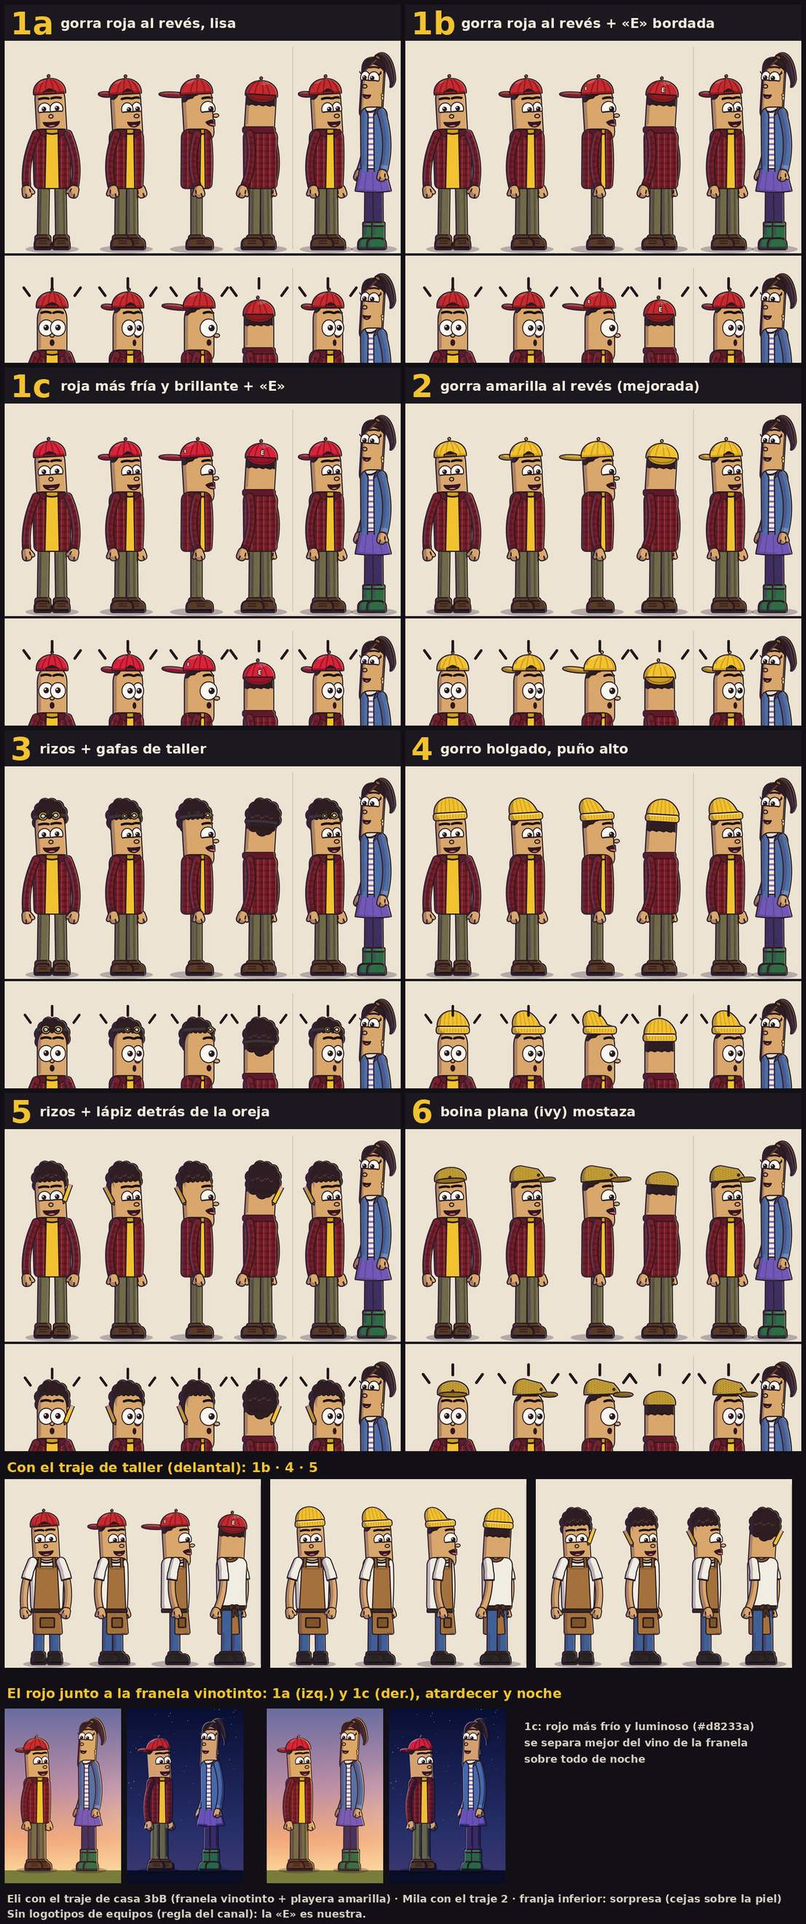
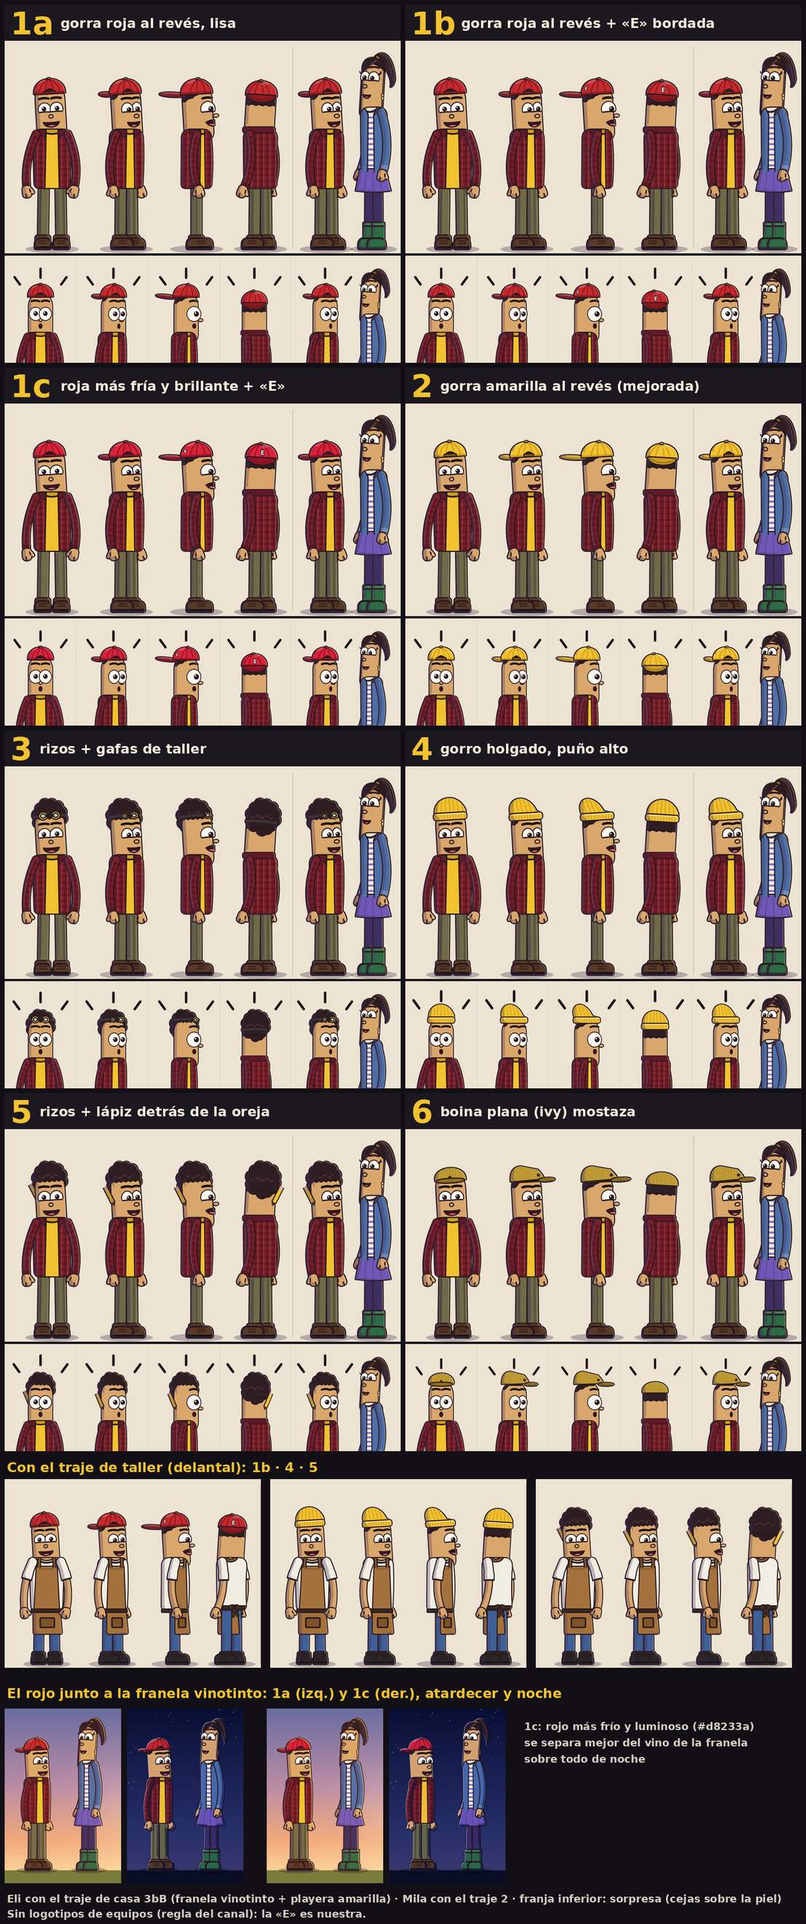
Guardian gate eli_gorro_opciones_v2: pencil (5) behind the head on Eli's right ear in every view, off the eye; surprise ticks / anger mark clear of caps, beanie, curls (extraK + new extras_clear_check.py); cap top button sits on the crown; sheet builder in git, solo surprise strip; brow_clear_check 
Claude-Session: https://claude.ai/code/session_01Xa8YPWmmU68CUYj3YXfuu9

diff --git a/newchannel/art/lib/hats_v2.js b/newchannel/art/lib/hats_v2.js
@@ -21,7 +21,7 @@
     h.shape(c, crown, col, H.lw);
     c.save(); crown(); c.clip();
     c.strokeStyle = K.rgba(dark, 0.95); c.lineWidth = H.lw * 1.1;   // panel seams converge on the button
-    for (const k of [-0.75, -0.3, 0.3, 0.75]) { c.beginPath(); c.moveTo(k * hw + off, band + 0.004); c.quadraticCurveTo(k * hw * 0.75 + off, -hh - 0.012, off * 0.5, -hh - 0.038); c.stroke(); }
+    for (const k of [-0.75, -0.3, 0.3, 0.75]) { c.beginPath(); c.moveTo(k * hw + off, band + 0.004); c.quadraticCurveTo(k * hw * 0.75 + off, -hh - 0.008, off * 0.5, -hh - 0.024); c.stroke(); }
     c.fillStyle = K.rgba('#ffffff', 0.18); c.beginPath(); c.ellipse(-H.faceDir * hw * 0.35 - hw * 0.2 * (1 - fs), -hh - 0.016, hw * 0.35, 0.012, -0.3, 0, K.TAU); c.fill();   // soft sheen on the lit side
     c.fillStyle = K.rgba(dark, 0.9); c.fillRect(-hw * 1.3, band - 0.004, hw * 2.6, 0.01);   // the sweatband rim
     c.restore();
@@ -37,7 +37,9 @@
     else if (o.emblem && fs > 0.55) {   // 3/4-profile: the mark peeks on the front panel at the back of the head
       c.font = `800 ${0.028}px "Martian Mono"`; c.textAlign = 'center'; c.textBaseline = 'middle'; c.lineWidth = H.lw; c.strokeStyle = K.rgba(INK, 0.8); const ex = bk * hw * 0.78;
       c.strokeText(o.emblem, ex, band - 0.026); c.fillStyle = o.emblemCol || '#f3ecdd'; c.fillText(o.emblem, ex, band - 0.026); }
-    c.fillStyle = dark; c.strokeStyle = INK; c.lineWidth = H.lw; c.beginPath(); c.arc(off * 0.5, -hh - 0.04, 0.0075, 0, K.TAU); c.fill(); c.stroke();   // top button
+    // top button, sitting ON the crown top (-hh - 0.0235), cloth-coloured (Guardian 2026-10-29: it floated 0.016 above the crown
+    // on a stalk of outline + rim light and read as a «?» swirl at 1080p)
+    c.fillStyle = K.shade(col, -0.06); c.strokeStyle = INK; c.lineWidth = H.lw; c.beginPath(); c.ellipse(off * 0.5, -hh - 0.026, 0.011, 0.006, 0, 0, K.TAU); c.fill(); c.stroke();
     c.restore();
   };
 
@@ -60,9 +62,15 @@
     c.restore();
   }
 
-  // 5 · short curls + a yellow pencil tucked behind the ear (workshop habit); the pencil sits on the side of the head
-  function pencil(c, H) {
-    const hw = H.hw, side = H.back ? 1 : (H.fs < 0.2 ? 1 : -H.faceDir), x0 = side * hw * 1.0, y0 = 0.008;   // on the head edge (the ear side away from the face), leaning out and back
+  // 5 · short curls + a yellow pencil tucked behind Eli's RIGHT ear (workshop habit). The ear never changes: screen-left in the
+  // front-ish views, screen-right from the back. Guardian 2026-10-29: in front view it was drawn over the face edge at eye
+  // height (touching the right eye) and on the other ear than in 3/4 / profile / back. Now: where that ear is at the silhouette
+  // (front) or on the far side (turned to screen-left) the pencil goes BEHIND the head (hairBack layer) and only the eraser
+  // end shows past the hair; where the ear faces us (turned to screen-right, back views) it lies on the side of the head.
+  function pencil(c, H, behind) {
+    const front = !H.back && H.fs < 0.2, near = H.back || (!front && H.faceDir > 0);
+    if (behind === near) return;
+    const hw = H.hw, side = H.back ? 1 : -1, x0 = side * hw * (front ? 0.92 : 1.0), y0 = front ? -0.006 : 0.008;
     const ang = side * 0.42, L = 0.085, w = 0.009, dx = Math.sin(ang) * L, dy = -Math.cos(ang) * L;
     c.save(); c.translate(x0, y0); c.lineCap = 'butt';
     const seg = (a, b, col, ww) => { c.strokeStyle = INK; c.lineWidth = ww + H.lw * 2; c.beginPath(); c.moveTo(dx * a, dy * a); c.lineTo(dx * b, dy * b); c.stroke(); c.strokeStyle = col; c.lineWidth = ww; c.stroke(); };
@@ -91,19 +99,20 @@
 
   const RED = '#c62a2f', RED_D = '#8e1a20', RED_C = '#d8233a', RED_CD = '#9a1328', Y = '#f2c230', YD = '#cf9d1f';
   C.ELI_HATS_V2 = {
-    '1a': { name: 'gorra roja al revés (lisa)', cost: 'nuevo (gorra estructurada de 6 paneles, cierre trasero a la vista)', layers: () => ({ extraK: 1.36, hat: capRev(RED, RED_D) }) },
-    '1b': { name: 'gorra roja al revés con «E» bordada', cost: 'igual que 1a + bordado', layers: () => ({ extraK: 1.36, hat: capRev(RED, RED_D, { emblem: 'E' }) }) },
-    '1c': { name: 'gorra roja más fría y brillante (se separa mejor del vinotinto)', cost: 'igual que 1a', layers: () => ({ extraK: 1.36, hat: capRev(RED_C, RED_CD, { emblem: 'E' }) }) },
-    2: { name: 'gorra amarilla al revés (mejorada)', cost: 'nuevo, misma función que 1', layers: () => ({ extraK: 1.36, hat: capRev(Y, YD, { strap: '#8a6512' }) }) },
-    3: { name: 'rizos + gafas de taller (pulida)', cost: 'existe (ronda 1, pasada por el Guardián)', layers: () => ({ extraK: 1.3, hat: (c, H) => { curlsFront(c, H); goggles(c, H); }, hairBack: curlsBack }) },
-    4: { name: 'gorro tejido holgado, puño alto (cejas siempre libres)', cost: 'nuevo (rediseño del gorro actual)', layers: () => ({ extraK: 1.3, hat: slouch, backHair: (c, H) => shortHair(c, H, 0.06) }) },
-    5: { name: 'rizos + lápiz amarillo detrás de la oreja', cost: 'nuevo (lápiz) + rizos existentes', layers: () => ({ extraK: 1.3, hat: (c, H) => { curlsFront(c, H); pencil(c, H); }, hairBack: curlsBack }) },
+    '1a': { name: 'gorra roja al revés (lisa)', cost: 'nuevo (gorra estructurada de 6 paneles, cierre trasero a la vista)', layers: () => ({ extraK: 1.5, hat: capRev(RED, RED_D) }) },
+    '1b': { name: 'gorra roja al revés con «E» bordada', cost: 'igual que 1a + bordado', layers: () => ({ extraK: 1.5, hat: capRev(RED, RED_D, { emblem: 'E' }) }) },
+    '1c': { name: 'gorra roja más fría y brillante (se separa mejor del vinotinto)', cost: 'igual que 1a', layers: () => ({ extraK: 1.5, hat: capRev(RED_C, RED_CD, { emblem: 'E' }) }) },
+    2: { name: 'gorra amarilla al revés (mejorada)', cost: 'nuevo, misma función que 1', layers: () => ({ extraK: 1.5, hat: capRev(Y, YD, { strap: '#8a6512' }) }) },
+    3: { name: 'rizos + gafas de taller (pulida)', cost: 'existe (ronda 1, pasada por el Guardián)', layers: () => ({ extraK: 1.55, hat: (c, H) => { curlsFront(c, H); goggles(c, H); }, hairBack: curlsBack }) },
+    4: { name: 'gorro tejido holgado, puño alto (cejas siempre libres)', cost: 'nuevo (rediseño del gorro actual)', layers: () => ({ extraK: 1.6, hat: slouch, backHair: (c, H) => shortHair(c, H, 0.06) }) },
+    5: { name: 'rizos + lápiz amarillo detrás de la oreja', cost: 'nuevo (lápiz) + rizos existentes', layers: () => ({ extraK: 1.55, hat: (c, H) => { curlsFront(c, H); pencil(c, H, false); }, hairBack: (c, H, B) => { curlsBack(c, H, B); pencil(c, H, true); } }) },
     6: { name: 'boina plana (ivy) mostaza, espiga', cost: 'nuevo (rediseño de la boina)', layers: () => ({ extraK: 1.42, hat: ivy, backHair: (c, H) => shortHair(c, H, 0.062) }) },
   };
   // a spec with one round-2 headwear on top of an outfit spec id (e.g. C.OUTFITS.variant('eli', '3bB', 0))
-  C.ELI_HATS_V2.variant = function (key, outfitId) {
-    const id = `${outfitId}_hat2_${key}`; if (C.SPECS[id]) return id; const b = C.SPECS[outfitId], L = C.ELI_HATS_V2[key].layers();
-    C.define(id, Object.assign({}, b, { hat: L.hat || null, hairBack: L.hairBack || null, hairFront: L.hairFront || null, backHair: L.backHair || null, extraK: L.extraK || b.extraK }));
+  C.ELI_HATS_V2.variant = function (key, outfitId, probe, nohat) {   // probe / nohat: QC only (brow_clear_check.py --v2)
+    const id = `${outfitId}_hat2_${key}` + (probe ? 'p' : '') + (nohat ? 'x' : ''); if (C.SPECS[id]) return id; const b = C.SPECS[outfitId], L = nohat ? {} : C.ELI_HATS_V2[key].layers();
+    C.define(id, Object.assign({}, b, { hat: L.hat || null, hairBack: L.hairBack || null, hairFront: L.hairFront || null, backHair: L.backHair || null, extraK: L.extraK || b.extraK },
+      probe ? { face: Object.assign({}, b.face, { browColor: '#ff0000' }) } : {}));
     return id;
   };
 })(typeof window !== 'undefined' ? window : globalThis);

diff --git a/newchannel/art/scenes/eli_hat2_lab.js b/newchannel/art/scenes/eli_hat2_lab.js
@@ -1,13 +1,15 @@
 /* Eli headwear round 2 (lib/hats_v2.js), worn with the HOME outfit 3bB (or ?outfit=1 for the workshop apron), Mila in outfit 2.
-   ?scene=eli_hat2_lab&k=1a|1b|1c|2..6[&outfit=3bB|1][&expr=surprised][&solo=0..4][&light=golden|night: the pair in scene light] */
+   ?scene=eli_hat2_lab&k=1a|1b|1c|2..6[&outfit=3bB|1][&expr=surprised][&hit=1][&solo=0..4][&light=golden|night: the pair in scene light]
+   QC (Guardian 2026-10-29, brow_clear_check.py --v2): &probe=1 paints the brows pure red, &nohat=1 drops every head layer,
+   &noextras=1 drops the surprise ticks / anger mark (extras_clear_check.py) */
 (function (root) {
   const K = root.K, C = K.cast;
   K.scene('eli_hat2_lab', {
-    setup(ctx, o) { this.k = o.k || '1a'; const out = o.outfit || '3bB'; this.id = C.ELI_HATS_V2.variant(this.k, C.OUTFITS.variant('eli', out, 0)); this.mila = C.OUTFITS.variant('mila', 2);
+    setup(ctx, o) { this.k = o.k || '1a'; const out = o.outfit || '3bB'; this.id = C.ELI_HATS_V2.variant(this.k, C.OUTFITS.variant('eli', out, 0), +(o.probe || 0), +(o.nohat || 0)); this.hit = +(o.hit || 0); this.noex = +(o.noextras || 0); this.mila = C.OUTFITS.variant('mila', 2);
       this.expr = o.expr || 'happy'; this.solo = o.solo != null ? +o.solo : null; this.light = o.light || null; },
     draw(ctx, t) {
       const id = this.id, u = 860; let L = Object.assign({}, C.LIGHT.golden, { rim: '#fff4dc', rimA: 0.35 });
-      const o = { pose: 'stand', expr: this.expr, t: 0.6, light: L, shadow: 0.3, blink: 0 };
+      const o = { pose: 'stand', expr: this.expr, t: 0.6, light: L, shadow: 0.3, blink: 0, hatHit: this.hit }; if (this.noex) o.extras = [];   // &noextras=1: QC (extras_clear_check.py)
       if (this.light) {
         if (this.light === 'golden') { const g = ctx.createLinearGradient(0, 0, 0, K.H); g.addColorStop(0, '#5d6aa3'); g.addColorStop(0.45, '#b48aa8'); g.addColorStop(0.75, '#f0a77f'); g.addColorStop(1, '#ffe2a8'); ctx.fillStyle = g; ctx.fillRect(0, 0, K.W, K.H);
           K.light.glow(ctx, 1500, 700, 700, '#ffd88f', 0.5, 'screen'); ctx.fillStyle = '#6d7a3e'; ctx.fillRect(0, 1000, K.W, 80); L = C.LIGHT.golden; }
@@ -23,7 +25,7 @@
       const mila = (x) => C.draw(ctx, this.mila, x, 1040, u, { view: 'q', dir: -1, pose: 'stand', expr: 'happy', t: 0.9, light: L, shadow: 0.3, blink: 0, look: [-0.7, -0.1] });
       if (this.solo != null) {
         if (this.solo < 4) C.draw(ctx, id, 960, 1040, u, Object.assign({}, o, V[this.solo][1]));
-        else { C.draw(ctx, id, 845, 1040, u, Object.assign({}, o, { view: 'q', dir: 1, look: [0.7, -0.1] })); mila(1075); }
+        else { C.draw(ctx, id, 830, 1040, u, Object.assign({}, o, { view: 'q', dir: 1, look: [0.7, -0.1] })); mila(1110); }   // 280 apart: the surprise ticks (extraK 1.5-1.6) clear Mila's hair (Guardian 2026-10-29)
         return;
       }
       for (const [x, v] of V) C.draw(ctx, id, x, 1040, u, Object.assign({}, o, v));

diff --git a/newchannel/art/render/brow_clear_check.py b/newchannel/art/render/brow_clear_check.py
@@ -5,6 +5,7 @@ For each headwear option (eli_hat_lab n=1..7), expression (happy / surprised / f
 (front, 3/4, profile, beside Mila), renders the lab twice with the brows painted pure red (&probe=1): once with the
 headwear and once without (&nohat=1). The ring 2-5 px around the red brows must show the same skin in both renders (ink outlines and rim light, which follow the silhouette, are ignored): any
 pixel the headwear (hat, brim, band, lens, hair) changes inside that ring = the brows touch it (FAIL).
+--v2: round-2 headwear (eli_hat2_lab k=1a,1b,1c,2..6 on outfit 3bB, or --outfit=1), and adds the laugh face.
 Writes OUTDIR/brow_clear.json and prints one line per option. Exit 1 if any option fails (except the listed --ref ones).
 """
 import json, os, subprocess, sys
@@ -14,13 +15,24 @@ from PIL import Image, ImageFilter
 
 HERE = os.path.dirname(os.path.abspath(__file__))
 out = sys.argv[1]; os.makedirs(out, exist_ok=True)
-opts = [int(a) for a in sys.argv[2:] if a.isdigit()] or list(range(1, 8))
-EXPRS, HITS, VIEWS = ["happy", "surprised", "furious"], [0, 1], [0, 1, 2, 4]
+V2 = "--v2" in sys.argv
+OUTFIT = next((a.split("=", 1)[1] for a in sys.argv if a.startswith("--outfit=")), "3bB")
+ARGS = [a for a in sys.argv[2:] if not a.startswith("--")]
+if V2:
+    SCENE, KEY = "eli_hat2_lab", "k"
+    opts = ARGS or ["1a", "1b", "1c", "2", "3", "4", "5", "6"]
+    EXTRA = f"&outfit={OUTFIT}"
+    EXPRS = ["happy", "surprised", "furious", "laugh"]
+else:
+    SCENE, KEY, EXTRA = "eli_hat_lab", "n", ""
+    opts = [int(a) for a in ARGS if a.isdigit()] or list(range(1, 8))
+    EXPRS = ["happy", "surprised", "furious"]
+HITS, VIEWS = [0, 1], [0, 1, 2, 4]
 
 
 def render(q, png):
     if not os.path.exists(png):
-        subprocess.run(["node", os.path.join(HERE, "render.mjs"), "--scene", "eli_hat_lab", "--still", "1", "--png", png, "--query", q],
+        subprocess.run(["node", os.path.join(HERE, "render.mjs"), "--scene", SCENE, "--still", "1", "--png", png, "--query", q],
                        check=True, stdout=subprocess.DEVNULL)
     return png
 
@@ -30,8 +42,8 @@ for n in opts:
     for e in EXPRS:
         for h in HITS:
             for v in VIEWS:
-                base = f"n={n}&expr={e}&hit={h}&solo={v}&probe=1"
-                jobs.append((n, e, h, v, (base, f"{out}/n{n}_{e}_h{h}_v{v}.png"), (base + "&nohat=1", f"{out}/n{n}_{e}_h{h}_v{v}_x.png")))
+                base = f"{KEY}={n}{EXTRA}&expr={e}&hit={h}&solo={v}&probe=1"
+                jobs.append((n, e, h, v, (base, f"{out}/n{n}{OUTFIT if V2 else ''}_{e}_h{h}_v{v}.png"), (base + "&nohat=1", f"{out}/n{n}{OUTFIT if V2 else ''}_{e}_h{h}_v{v}_x.png")))
 with ThreadPoolExecutor(8) as ex:
     list(ex.map(lambda j: (render(*j[4]), render(*j[5])), jobs))
 

diff --git a/newchannel/art/render/extras_clear_check.py b/newchannel/art/render/extras_clear_check.py
@@ -1,0 +1,52 @@
+#!/usr/bin/env python3
+"""extras_clear_check.py OUTDIR [keys...] [--outfit=3bB] -- Guardian check (2026-10-29): the expression extras (surprise
+ticks, anger mark, laugh lines) never touch Eli's headwear / hair.
+
+For each round-2 headwear key (eli_hat2_lab k=1a..6), expression (surprised / furious / laugh / happy), hat hit (0 / 1) and
+view (front, 3/4, profile, back), renders the lab alone (&solo=) twice: normal and with &noextras=1. Pixels that differ =
+the extras. Any extra pixel within GAP px of a non-background pixel of the character render = touching (FAIL).
+Writes OUTDIR/extras_clear.json; exit 1 on any FAIL.
+"""
+import json, os, subprocess, sys
+from concurrent.futures import ThreadPoolExecutor
+import numpy as np
+from PIL import Image, ImageFilter
+
+HERE = os.path.dirname(os.path.abspath(__file__))
+out = sys.argv[1]; os.makedirs(out, exist_ok=True)
+OUTFIT = next((a.split("=", 1)[1] for a in sys.argv if a.startswith("--outfit=")), "3bB")
+keys = [a for a in sys.argv[2:] if not a.startswith("--")] or ["1a", "1b", "1c", "2", "3", "4", "5", "6"]
+EXPRS, HITS, VIEWS, GAP = ["surprised", "furious", "laugh", "happy"], [0, 1], [0, 1, 2, 3], 6
+BG = np.array([0xec, 0xe3, 0xd3])
+
+
+def render(q, png):
+    if not os.path.exists(png):
+        subprocess.run(["node", os.path.join(HERE, "render.mjs"), "--scene", "eli_hat2_lab", "--still", "1", "--png", png, "--query", q],
+                       check=True, stdout=subprocess.DEVNULL)
+    return png
+
+
+jobs = []
+for k in keys:
+    for e in EXPRS:
+        for h in HITS:
+            for v in VIEWS:
+                q = f"k={k}&outfit={OUTFIT}&expr={e}&hit={h}&solo={v}"; f = f"{out}/{k}{OUTFIT}_{e}_h{h}_v{v}"
+                jobs.append((k, e, h, v, (q, f + ".png"), (q + "&noextras=1", f + "_x.png")))
+with ThreadPoolExecutor(8) as ex:
+    list(ex.map(lambda j: (render(*j[4]), render(*j[5])), jobs))
+
+res, bad = {}, {}
+for k, e, h, v, (_, pa), (_, pb) in jobs:
+    a = np.asarray(Image.open(pa).convert("RGB")).astype(int)[:560]; b = np.asarray(Image.open(pb).convert("RGB")).astype(int)[:560]
+    extra = np.abs(a - b).sum(2) > 60
+    body = np.abs(b - BG).sum(2) > 40
+    near = np.asarray(Image.fromarray((body * 255).astype(np.uint8)).filter(ImageFilter.MaxFilter(2 * GAP + 1))) > 0
+    t = int((extra & near).sum()); res[f"{k}_{e}_h{h}_v{v}"] = {"touch_px": t, "extra_px": int(extra.sum())}
+    if t > 3: bad.setdefault(k, []).append((t, e, h, v))
+for k in keys:
+    b = bad.get(k, [])
+    print(f"option {k}: {'FAIL' if b else 'PASS'}" + (f"  {len(b)} cases, worst {max(b)}" if b else ""))
+json.dump(res, open(f"{out}/extras_clear.json", "w"), indent=1)
+sys.exit(1 if bad else 0)

diff --git a/newchannel/art/render/eli_hat2_sheet.py b/newchannel/art/render/eli_hat2_sheet.py
@@ -1,6 +1,6 @@
 #!/usr/bin/env python3
 """Eli headwear round 2 sheet (eli_gorro_opciones_v2_small.jpg) from eli_hat2_lab stills in <dir>: h<k>.png (happy),
-s<k>.png (surprised), w<k>.png (workshop outfit), L<k>_<golden|night>.png. Usage: eli_hat2_sheet.py <dir> <out.jpg>"""
+s<k>_v0..4.png (surprised, each view alone: ?solo=0..4), w<k>.png (workshop outfit), L<k>_<golden|night>.png. Usage: eli_hat2_sheet.py <dir> <out.jpg>"""
 import os, sys
 from PIL import Image, ImageDraw, ImageFont
 S, OUT = sys.argv[1], sys.argv[2]
@@ -10,9 +10,15 @@ K = ['1a', '1b', '1c', '2', '3', '4', '5', '6']
 N = {'1a': 'gorra roja al revés, lisa', '1b': 'gorra roja al revés + «E» bordada', '1c': 'roja más fría y brillante + «E»', '2': 'gorra amarilla al revés (mejorada)',
      '3': 'rizos + gafas de taller', '4': 'gorro holgado, puño alto', '5': 'rizos + lápiz detrás de la oreja', '6': 'boina plana (ivy) mostaza'}
 W = 680; cells = []
+SOLO = [(750, 10, 1170, 637)] * 4 + [(640, 10, 1280, 637)]   # 4 x 420 + 640 = 2320 x 627 -> 680 x 184 (same aspect): the side ticks fit (extraK up to 1.6)
 for k in K:
     a = Image.open(f'{S}/h{k}.png').convert('RGB').crop((0, 30, 1920, 1060)).resize((W, 365), Image.LANCZOS)
-    b = Image.open(f'{S}/s{k}.png').convert('RGB').crop((0, 0, 1920, 520)).resize((W, 184), Image.LANCZOS)
+    # surprise strip: each view rendered alone (?solo=) so the ticks never cross a neighbouring view; 40 px over the ticks
+    strip = Image.new('RGB', (sum(x1 - x0 for x0, _, x1, _ in SOLO), SOLO[0][3] - SOLO[0][1])); ox = 0; dd = ImageDraw.Draw(strip)
+    for v, bx in enumerate(SOLO):
+        strip.paste(Image.open(f'{S}/s{k}_v{v}.png').convert('RGB').crop(bx), (ox, 0)); ox += bx[2] - bx[0]
+        if v < 4: dd.line((ox, 0, ox, strip.height), fill='#cbbfae', width=3)
+    b = strip.resize((W, 184), Image.LANCZOS)
     c = Image.new('RGB', (W, 62 + 365 + 184 + 4), '#1c1820'); d = ImageDraw.Draw(c)
     d.text((10, 0), k, font=big, fill='#f2c230'); d.text((96 if len(k) > 1 else 60, 18), N[k], font=mid, fill='#f3ecdd')
     c.paste(a, (0, 62)); c.paste(b, (0, 62 + 365 + 4)); cells.append(c)

diff --git a/newchannel/art/characters/leo_mila/GUARDIAN_LOG.md b/newchannel/art/characters/leo_mila/GUARDIAN_LOG.md
@@ -98,3 +98,8 @@
 | 2026-10-29 | QC — `collar_face_check.py` | (1) no aceptaba variantes (`n=3bA`) ni el laboratorio (`+o.n` → NaN, caía en otro traje); (2) **falso positivo**: la franela vinotinto #7a1f2b pasa el test de color de labios (todas las celdas −1) y, en el render `headover`, la manga queda rodeada de piel | detector de boca solo por color | `outfit_lab` acepta `n=3bA`; el chequeo acepta `n=a,b,c`; boca = color de labio con piel a ambos lados, arriba y abajo en el render normal; «boca no encontrada» donde la referencia la encuentra = FAIL. Resultado: 3bA/B/C mín. 7 px PASS, Mila 2 32 px PASS (CHARACTERS.md §6e) | arreglado |
 | 2026-10-29 | traje de casa — proceso | al editar `outfit_lab.js` un comentario `//` en medio de la línea se comió `const u = 820, b = …` (render roto) | misma clase que la fila 2026-10-24 de listas de planos | comentario `/* */`; el render lo delató en el acto | arreglado |
 | 2026-10-29 | traje de casa — gate final | revisado a ojo y con chequeos: 3bA/B/C en frente, 3/4, perfil, espalda, sentado, brazos arriba + pareja con Mila 2 en neutra / atardecer / noche; puños y cuello amarillos (C) en toda vista y franja de cuello trasera; cuadros sin moiré a 320 px; nada cruza caras; pupilas y cejas libres (`brow_clear_check` opción 2 PASS) | — | hoja reconstruida (311 KB) | PASS |
+| 2026-10-29 | gorros ronda 2 (`eli_gorro_opciones_v2_small.jpg`, 9704a08) — opción 5 | **lápiz pegado al borde del ojo derecho de frente** (dibujado encima de la cara a la altura del ojo) y **en la otra oreja** que en 3/4, perfil y espalda | `pencil()` en la capa del gorro con `side = 1` de frente y `-faceDir` girado | siempre la oreja derecha de Eli (izq. de pantalla de frente, der. de espaldas); de frente / girado a la izquierda va DETRÁS de la cabeza (capa `hairBack`), solo asoman cuerpo y goma fuera del pelo; girado a la derecha y de espaldas, sobre el lado de la cabeza (`hats_v2.js`) | arreglado |
+| 2026-10-29 | gorros ronda 2 — 1a/1b/1c/2, 3, 4, 5 | **rayitas de sorpresa sobre el botón de la gorra, el gorro y los rizos; marca de enojo dentro de los rizos** (3, 5) y sobre el gorro (4) | `extraK` heredado de la ronda 1 (1,3-1,36) no bastaba con estas copas / el traje 3bB | `extraK` 1,5 (gorras), 1,55 (rizos), 1,6 (gorro holgado). **Chequeo nuevo `extras_clear_check.py`** (extras a ≥ 6 px del personaje): 8/8 PASS en 3bB y 1b/4/5 en el traje 1 | arreglado + control nuevo |
+| 2026-10-29 | gorros ronda 2 — gorras 1a/1b/1c/2 a 1080p | **botón superior flotando 0,016 sobre la copa** con un tallo de contorno + luz de borde (se leía como un «?») y costuras convergiendo fuera de la copa | botón en `-hh-0,04`, la copa termina en `-hh-0,0235` | botón ovalado del color de la tela apoyado en la copa (`-hh-0,026`), costuras a `-hh-0,024` | arreglado |
+| 2026-10-29 | gorros ronda 2 — armado de la hoja | franja de sorpresa recortada de la vista completa (las rayitas más altas podían cruzar la vista vecina, regla de la ronda 1); con los extras más grandes las rayitas de Eli tocaban la coleta de Mila en la celda pareja; el script de armado no estaba en git; el laboratorio v2 no tenía `hit` / `probe` / `nohat` (el chequeo de cejas no podía correr) | — | `build_eli_hat2_sheet.sh` nuevo; franja con cada vista sola (`?solo=`), cajas de 420 px; pareja a 280 px; laboratorio con `&hit`, `&probe`, `&nohat`, `&noextras`; `brow_clear_check.py --v2` (1a..6 x alegría / sorpresa / enojo / risa x golpe x 4 vistas): 8/8 PASS, traje 1: 3/3 PASS | arreglado |
+| 2026-10-29 | gorros ronda 2 — gate final | gorra al revés: abertura + tira sobre la frente, visera atrás en 3/4 y perfil, visera hacia cámara de espaldas; «E» propia, sin parecido a logos de equipos; nada cruza los ojos; pupilas presentes; hoja reconstruida (395 KB) | — | — | PASS |

diff --git a/newchannel/art/characters/leo_mila/CHARACTERS.md b/newchannel/art/characters/leo_mila/CHARACTERS.md
@@ -326,6 +326,12 @@ Rules (kit `art/lib/cast.js` + `ep/001/animatic/anim.js`):
   E1 G17 flag swept Mila's face for 2 frames at 46.70 s and the key-frame audits + pop check did not see it). Rule for
   shot lists: a prop with a pole or cloth (flag, magnifier, bucket, sandwich, clipboard) is held in the hand **away** from
   the other character and its whole arc (up AND down) is rendered frame by frame before the shot is accepted.
+- **Round-2 headwear and expression extras (Guardian, 2026-10-29).** `brow_clear_check.py <scratch> --v2 [keys] [--outfit=1]`
+  runs the same brow test on `eli_hat2_lab` (keys 1a..6, adds the laugh face). `python3 art/render/extras_clear_check.py
+  <scratch> [keys] [--outfit=1]` renders each view alone with and without the extras (`&noextras=1`) for surprised / furious /
+  laugh / happy x hit 0 / 1 x 4 views and fails any surprise tick / anger mark within 6 px of the character (hat, button,
+  curls). Any headwear sets `extraK` until it passes. Accessories that sit at the head edge (pencil) go behind the head where
+  the ear is at the silhouette and never cross an eye; they stay on the same ear in every view.
 - **Brows never touch the headwear (Guardian, 2026-10-29).** `python3 art/render/brow_clear_check.py <scratch> [n...]`
   renders `eli_hat_lab` for every headwear option x happy / surprised / furious x hat hit 0 / 1 x front / 3/4 / profile /
   beside Mila, twice with the brows painted red (`&probe=1`, with and without the headwear `&nohat=1`), and fails any
